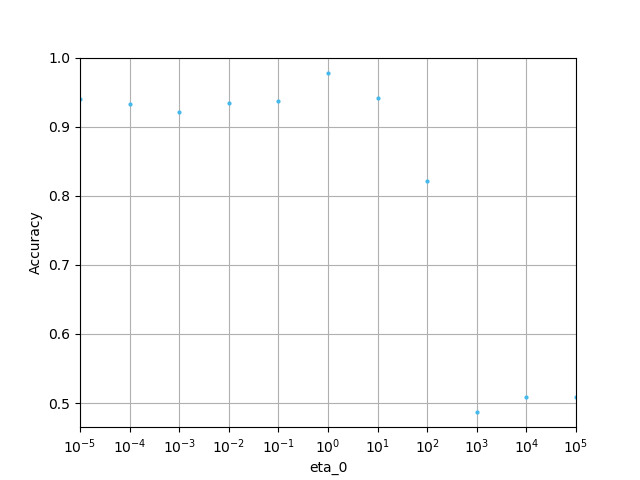
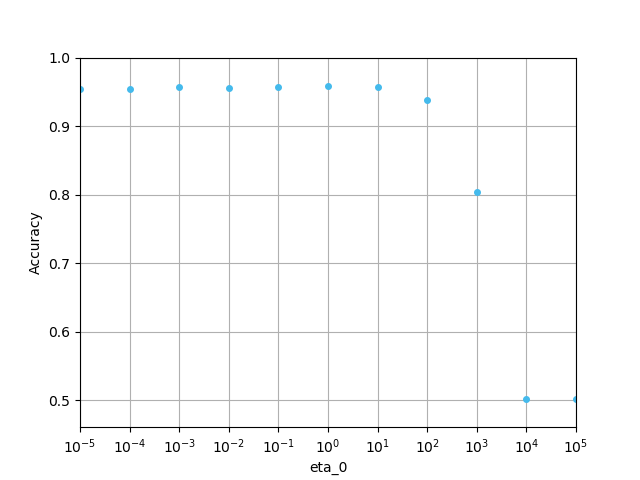
sgd update

diff --git a/hw4/sgd.py b/hw4/sgd.py
@@ -7,13 +7,8 @@
 import numpy as np
 import numpy.random
 import sklearn.preprocessing
-# from sklearn.datasets import fetch_mldata
 from sklearn.datasets import fetch_openml
 import matplotlib.pyplot as plt
-import random
-# from tensorflow import keras
-
-
 
 NUM_OF_LABELS = 10
 
@@ -89,33 +84,28 @@ def SGD_hinge(data, labels, C, eta_0, T):
     return w
 
 
-def calc_p(w, x, y):
-    return (np.exp(np.dot(w[int(y)], x)) / np.sum([np.exp(np.dot(w[i], x)) for i in range(NUM_OF_LABELS)])) * x
+def gradient(w, x, k, subtract):
+    w_dot_x = np.dot(w, x)
+    return (np.exp(w_dot_x[k])) * x / np.sum(np.exp(w_dot_x)) - subtract
 
 
-def SGC_ce_get_gradient(w, x, y):
-    grad = []
-    for i in range(NUM_OF_LABELS):
-        if int(y) == i:  # weight of the correct label
-            grad.append(calc_p(w, x, y) - x)
-        else:
-            grad.append(calc_p(w, x, y))
-    return np.array(grad)
+def softmax(z):
+    e_z = np.exp(z - np.max(z))
+    return e_z / e_z.sum(axis=0)
 
 
 def SGD_ce(data, labels, eta_0, T):
     w = np.zeros((NUM_OF_LABELS, np.size(data[0])))
     for epoch in range(T):
-        print('epoch {}'.format(epoch))
         i = np.random.randint(0, len(data))
         x = data[i]
         y = labels[i]
-        # Perform the gradient descent update
-        eta_t = eta_0 / (epoch + 1)
-        grad = SGC_ce_get_gradient(w, x, y)
-        # w = (1 - eta_t) * w - eta_t * grad
-        # w = w - eta_t * grad
-        w = w - eta_0 * grad
+
+        for i in range(NUM_OF_LABELS):
+            if i == int(y):
+                w[i] = w[i] - eta_0 * gradient(w, x, i, x)
+            else:
+                w[i] = w[i] - eta_0 * gradient(w, x, i, 0)
     return w
 
 
@@ -133,19 +123,18 @@ def calc_sgd_hinge_accuracy(data, labels, w):
 
 
 def predict_x_by_w_multiclass(x, w):
-    return np.argmax(np.dot(x, w))
+    return np.argmax(np.dot(w, x))
 
 
 def calc_sgd_ce_accuracy(data, labels, w):
     accuracy_num = 0
     for i in range(len(labels)):
-        accuracy_num += int((predict_x_by_w_multiclass(data[i], w) == labels[i]) == True)
+        accuracy_num += int((predict_x_by_w_multiclass(data[i], w) == int(labels[i])) == True)
     return accuracy_num / len(labels)
 
 
-def create_eta_0_options():
-    arr = np.array(np.arange(-5, 6), dtype='float32')
-    return [10 ** x for x in arr]
+def create_eta_0_options(min_exp, max_exp, step=1):
+    return [10 ** x for x in np.array(np.arange(min_exp, max_exp, step), dtype='float32')]
 
 
 def create_C_options():
@@ -158,7 +147,11 @@ def section_1a():
     C = 1
     num_of_runs = 10
     train_data, train_labels, validation_data, validation_labels, test_data, test_labels = helper_hinge()
-    eta_0_options = create_eta_0_options()
+
+    train_data = sklearn.preprocessing.normalize(train_data)
+    validation_data = sklearn.preprocessing.normalize(validation_data)
+
+    eta_0_options = create_eta_0_options(-5, 6)
     avg_accuracy_list = []
     for eta_0 in eta_0_options:
         accuracy_list = []
@@ -170,7 +163,7 @@ def section_1a():
     fig, ax = plt.subplots()
     ax.set_xscale("log")
     ax.grid()
-    plt.plot(eta_0_options, avg_accuracy_list, 'o', color='#44BAEC', markersize=2)
+    plt.plot(eta_0_options, avg_accuracy_list, 'o', color='#44BAEC', markersize=4)
     plt.xticks(eta_0_options)
 
     plt.xlabel('eta_0')
@@ -178,7 +171,8 @@ def section_1a():
     plt.ylim(np.min(avg_accuracy_list) - (1 - np.max(avg_accuracy_list)), 1)
     plt.xlim(eta_0_options[0], eta_0_options[len(eta_0_options)-1])
     plt.savefig('results/section_1a.png')
-    print('Best eta_0: {}'.format(eta_0_options[np.argmax(avg_accuracy_list)]))
+    print('Best eta_0: {} with accuracy on the validation data: {}'.format(eta_0_options[np.argmax(avg_accuracy_list)],
+                                                   avg_accuracy_list[np.argmax(avg_accuracy_list)]))
 
 
 def section_1b():
@@ -198,7 +192,7 @@ def section_1b():
     fig, ax = plt.subplots()
     ax.set_xscale("log")
     ax.grid()
-    plt.plot(C_options, avg_accuracy_list, 'o', color='#44BAEC', markersize=2)
+    plt.plot(C_options, avg_accuracy_list, 'o', color='#44BAEC', markersize=4)
     plt.xticks(C_options)
 
     plt.xlabel('C values')
@@ -206,7 +200,9 @@ def section_1b():
     plt.ylim(np.min(avg_accuracy_list) - (1 - np.max(avg_accuracy_list)), 1)
     plt.xlim(C_options[0], C_options[len(C_options)-1])
     plt.savefig('results/section_1b.png')
-    print('Best C: {}'.format(C_options[np.argmax(avg_accuracy_list)]))
+
+    print('Best C: {} with accuracy on the validation data: {}'.format(C_options[np.argmax(avg_accuracy_list)],
+                                                   avg_accuracy_list[np.argmax(avg_accuracy_list)]))
 
 
 def section_1c():
@@ -226,9 +222,15 @@ def section_2a():
     T = 1000
     num_of_runs = 10
     train_data, train_labels, validation_data, validation_labels, test_data, test_labels = helper_ce()
-    eta_0_options = create_eta_0_options()
+
+    train_data = sklearn.preprocessing.normalize(train_data)
+    validation_data = sklearn.preprocessing.normalize(validation_data)
+
+    eta_0_options = create_eta_0_options(-4, 2, 0.5)
     avg_accuracy_list = []
+
     for eta_0 in eta_0_options:
+        print('eta_0: {}'.format(eta_0))
         accuracy_list = []
         for i in range(num_of_runs):
             w = SGD_ce(train_data, train_labels, eta_0, T)
@@ -238,7 +240,7 @@ def section_2a():
     fig, ax = plt.subplots()
     ax.set_xscale("log")
     ax.grid()
-    plt.plot(eta_0_options, avg_accuracy_list, 'o', color='#44BAEC', markersize=2)
+    plt.plot(eta_0_options, avg_accuracy_list, 'o', color='#44BAEC', markersize=4)
     plt.xticks(eta_0_options)
 
     plt.xlabel('eta_0')
@@ -246,9 +248,26 @@ def section_2a():
     plt.ylim(np.min(avg_accuracy_list) - (1 - np.max(avg_accuracy_list)), 1)
     plt.xlim(eta_0_options[0], eta_0_options[len(eta_0_options)-1])
     plt.savefig('results/section_2a.png')
-    print('Best eta_0: {}'.format(eta_0_options[np.argmax(avg_accuracy_list)]))
+    print(avg_accuracy_list)
+    print('Best eta_0: {} with accuracy on the validation data: {}'.format(eta_0_options[np.argmax(avg_accuracy_list)],
+                                                   avg_accuracy_list[np.argmax(avg_accuracy_list)]))
+
+
+def section_2b():
+    T = 2000
+    train_data, train_labels, validation_data, validation_labels, test_data, test_labels = helper_ce()
+    eta_0 = 3.162277660168379e-07
+    w = SGD_ce(train_data, train_labels, eta_0, T)
+
+    for i in range(NUM_OF_LABELS):
+        plt.imshow(np.reshape(w[i], (28, 28)), interpolation='nearest', cmap='plasma')
+        plt.axis('off')
+        plt.savefig('results/section_2b_{}_img.png'.format(str(i)))
+
+    accuracy = calc_sgd_ce_accuracy(test_data, test_labels, w)
+    print('Accuracy on test set: {}'.format(accuracy))
 
 
 if __name__ == "__main__":
-    section_2a()
+    section_2b()
 
